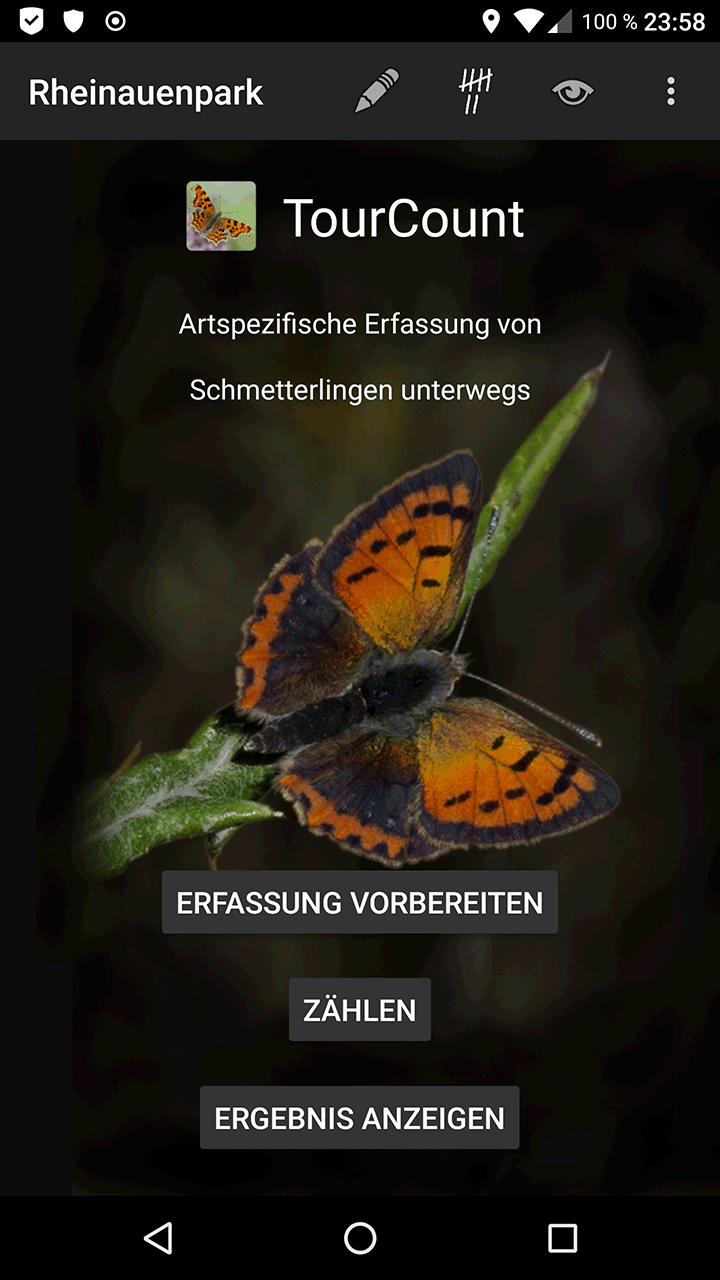
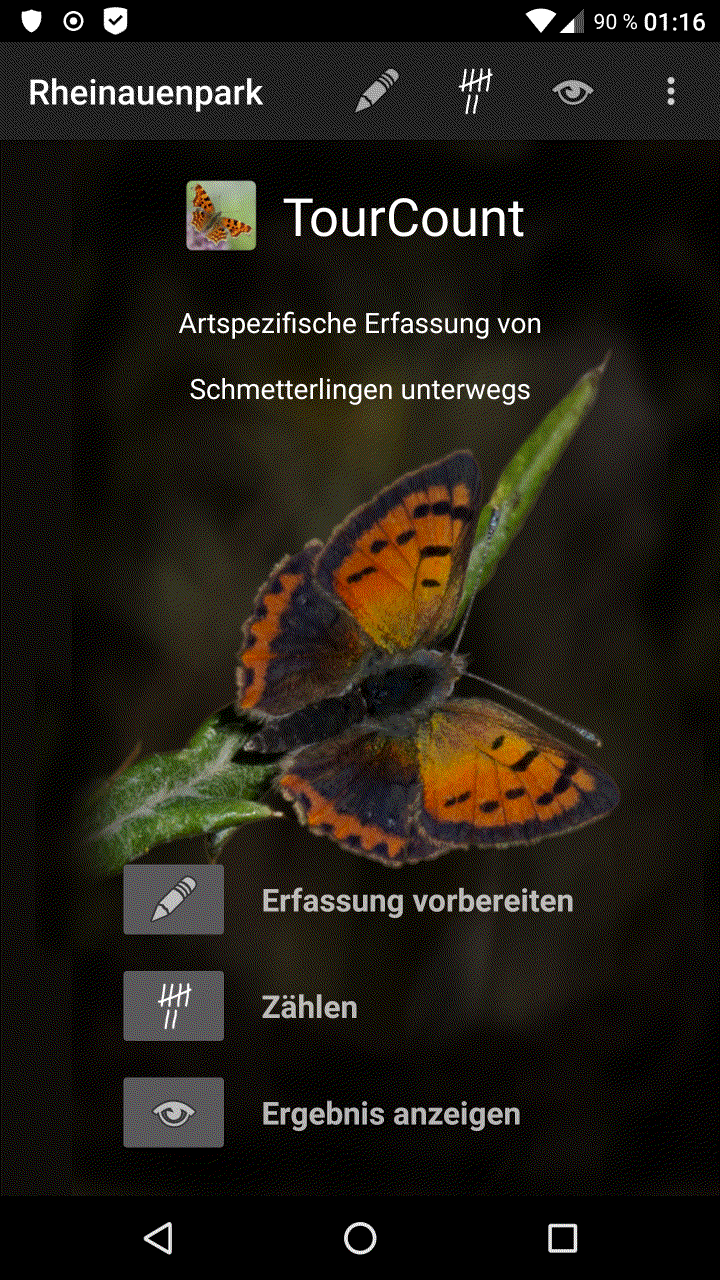
3.0.6: History.doc and Fastlane updated

diff --git a/docs/History.md b/docs/History.md
@@ -2,14 +2,15 @@
 
 #### TourCount Copyright (C) 2016-2018, Wilhelm Stein
 
-#### Version 3.0.6 (2018-10-14)
+#### Version 3.0.6 (2018-12-02)
 - Additional butterfly pictures
 - Some pictures edited to show both sides of wings
-- Some docs updated
+- Cosmetic changes to several app pages
 - Fix for crash when species selector is rapidly repeatedly pressed
+- Docs updated
 
 #### Version 3.0.5 (2018-09-20)
-- Fixed not working GPS height correction
+- Fixed GPS height correction not working
 
 #### Version 3.0.4 (2018-08-03)
 - Location retrieval function more reliable, changed to service
